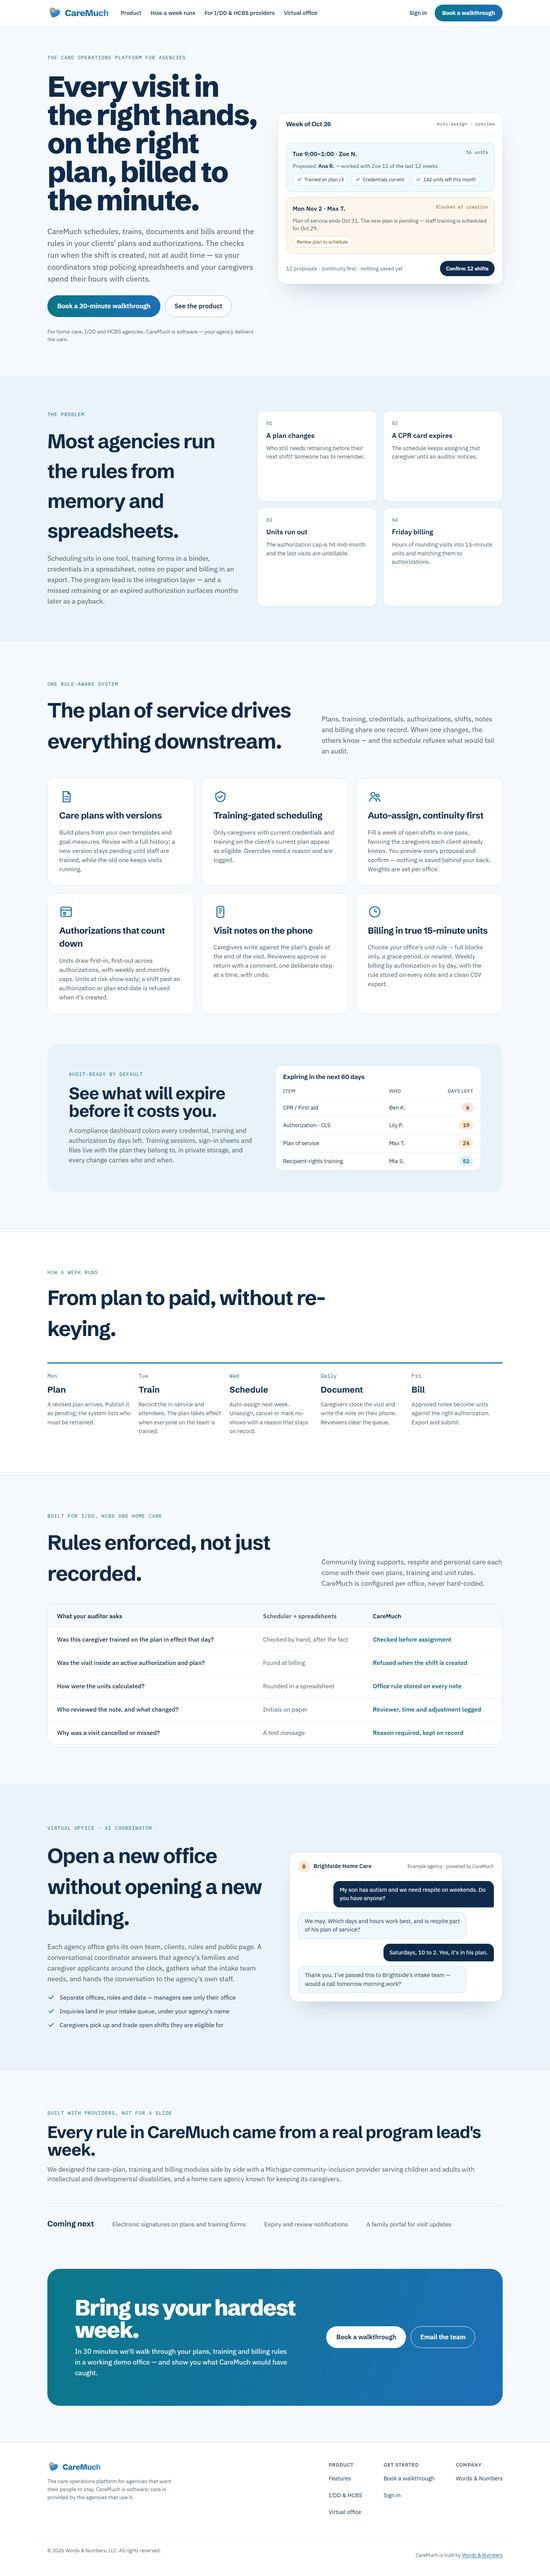
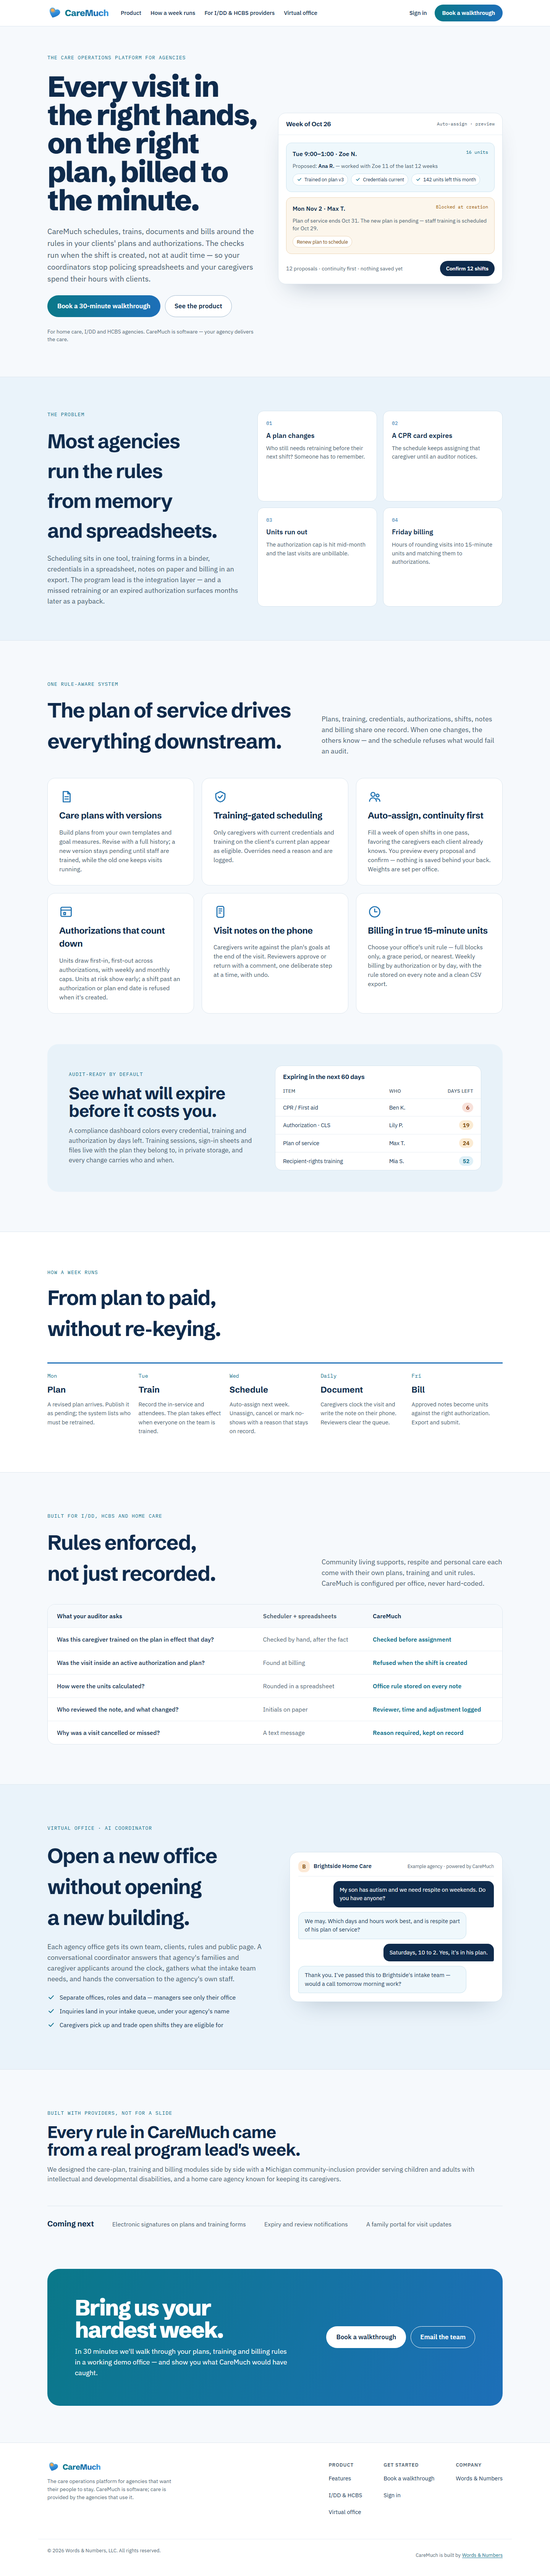
Home page: non-breaking hyphen in 're‑keying' and balanced wrapping on the public h1 / h2; home-1440 / home-390 re-shot

diff --git a/src/pages/Index.tsx b/src/pages/Index.tsx
@@ -12,7 +12,7 @@ const WALKTHROUGH = "mailto:info@wordsnumbers.ai?subject=CareMuch%20walkthrough"
 const EMAIL = "mailto:info@wordsnumbers.ai";
 const focus = "focus-visible:outline focus-visible:outline-2 focus-visible:outline-offset-2 focus-visible:outline-[#1D6FB8]";
 const eyebrow = "font-plexmono text-[13px] uppercase tracking-[0.08em] text-[#0B6E8C]";
-const h2 = "m-0 font-display font-bold leading-[1.04] tracking-[-0.03em]";
+const h2 = "m-0 font-display font-bold leading-[1.04] tracking-[-0.03em] [text-wrap:balance]";
 const body = "m-0 leading-relaxed text-[#405569]";
 const primaryBtn = cn("inline-flex min-h-[44px] items-center rounded-full bg-gradient-to-r from-[#0A7889] to-[#1D6FB8] font-semibold text-white no-underline hover:text-white", focus);
 const ghostBtn = cn("inline-flex min-h-[44px] items-center rounded-full border-[1.5px] border-[#9DB6CC] bg-white font-semibold text-[#0F2B4C] no-underline hover:text-[#0F2B4C]", focus);
@@ -104,7 +104,7 @@ export default function Index() {
         <section id="top" className="mx-auto flex max-w-[1240px] scroll-mt-4 flex-wrap items-center gap-14 px-6 pb-[88px] pt-[72px]">
           <div className="flex min-w-0 flex-[1_1_480px] flex-col gap-7">
             <div className={eyebrow}>The care operations platform for agencies</div>
-            <h1 className="m-0 font-display text-[clamp(40px,6vw,76px)] font-extrabold leading-[0.98] tracking-[-0.035em]">Every visit in the right hands, on the right plan, billed to the minute.</h1>
+            <h1 className="m-0 font-display text-[clamp(40px,6vw,76px)] font-extrabold leading-[0.98] tracking-[-0.035em] [text-wrap:balance]">Every visit in the right hands, on the right plan, billed to the minute.</h1>
             <p className={cn(body, "max-w-[560px] text-[20px] leading-[1.55]")}>CareMuch schedules, trains, documents and bills around the rules in your clients' plans and authorizations. The checks run when the shift is created, not at audit time — so your coordinators stop policing spreadsheets and your caregivers spend their hours with clients.</p>
             <div className="flex flex-wrap gap-3">
               <a href={WALKTHROUGH} className={cn(primaryBtn, "px-[26px] py-4 text-[17px]")}>Book a 30-minute walkthrough</a>
@@ -209,7 +209,7 @@ export default function Index() {
           <div className="mx-auto flex max-w-[1240px] flex-col gap-12 px-6 py-24">
             <div className="flex max-w-[760px] flex-col gap-4">
               <div className={eyebrow}>How a week runs</div>
-              <h2 id="week-h" className={cn(h2, "text-[clamp(32px,4vw,54px)]")}>From plan to paid, without re-keying.</h2>
+              <h2 id="week-h" className={cn(h2, "text-[clamp(32px,4vw,54px)]")}>From plan to paid, without re‑keying.</h2>
             </div>
             <ol className="m-0 grid list-none grid-cols-[repeat(auto-fit,minmax(210px,1fr))] border-t-[3px] border-[#1D6FB8] p-0">
               {WEEK.map(([d, t, x], i) => (
@@ -305,7 +305,7 @@ export default function Index() {
         <section id="demo" aria-labelledby="demo-h" className="mx-auto max-w-[1240px] scroll-mt-4 px-6 pb-24">
           <div className="flex flex-wrap items-center justify-between gap-8 rounded-[32px] bg-[linear-gradient(110deg,#0A7889_0%,#1D6FB8_100%)] p-[clamp(28px,6vw,72px)] text-white">
             <div className="flex min-w-0 flex-[1_1_520px] flex-col gap-3.5">
-              <h2 id="demo-h" className="m-0 font-display text-[clamp(32px,4.4vw,58px)] font-extrabold leading-none tracking-[-0.035em]">Bring us your hardest week.</h2>
+              <h2 id="demo-h" className="m-0 font-display text-[clamp(32px,4.4vw,58px)] font-extrabold leading-none tracking-[-0.035em] [text-wrap:balance]">Bring us your hardest week.</h2>
               <p className="m-0 max-w-[560px] text-lg leading-[1.55] text-white">In 30 minutes we'll walk through your plans, training and billing rules in a working demo office — and show you what CareMuch would have caught.</p>
             </div>
             <div className="flex flex-wrap gap-3">
